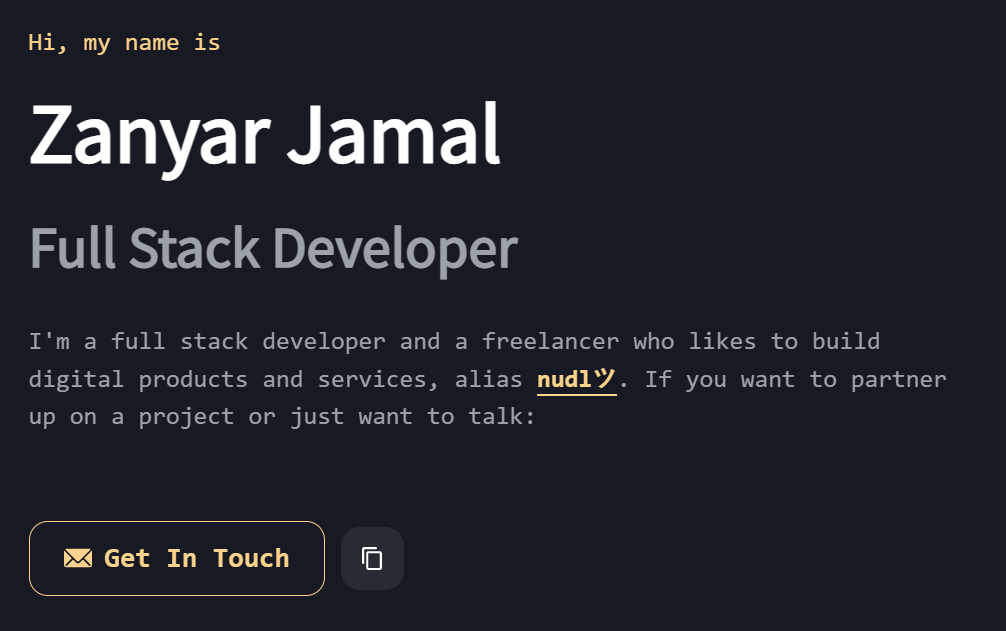
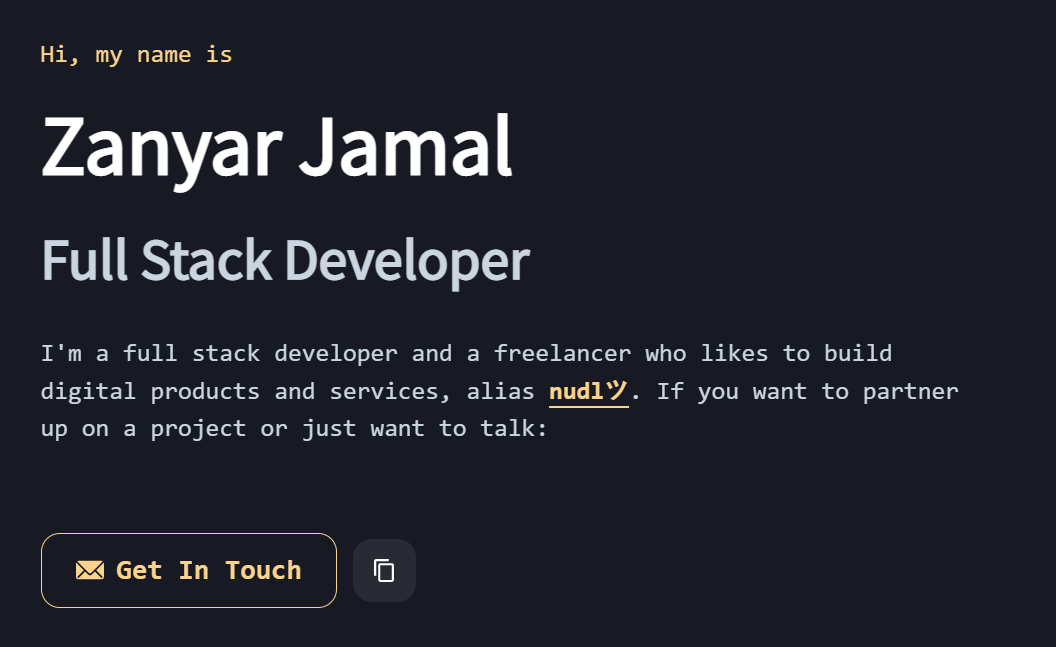
updated text colors

diff --git a/src/theme.tsx b/src/theme.tsx
@@ -13,7 +13,7 @@ const theme = extendTheme({
     colors: {
       text: {
         default: 'gray.800',
-        _dark: '#9ca2a9',
+        _dark: 'gray.300',
       },
       heroGradientStart: {
         default: '#7928CA',
